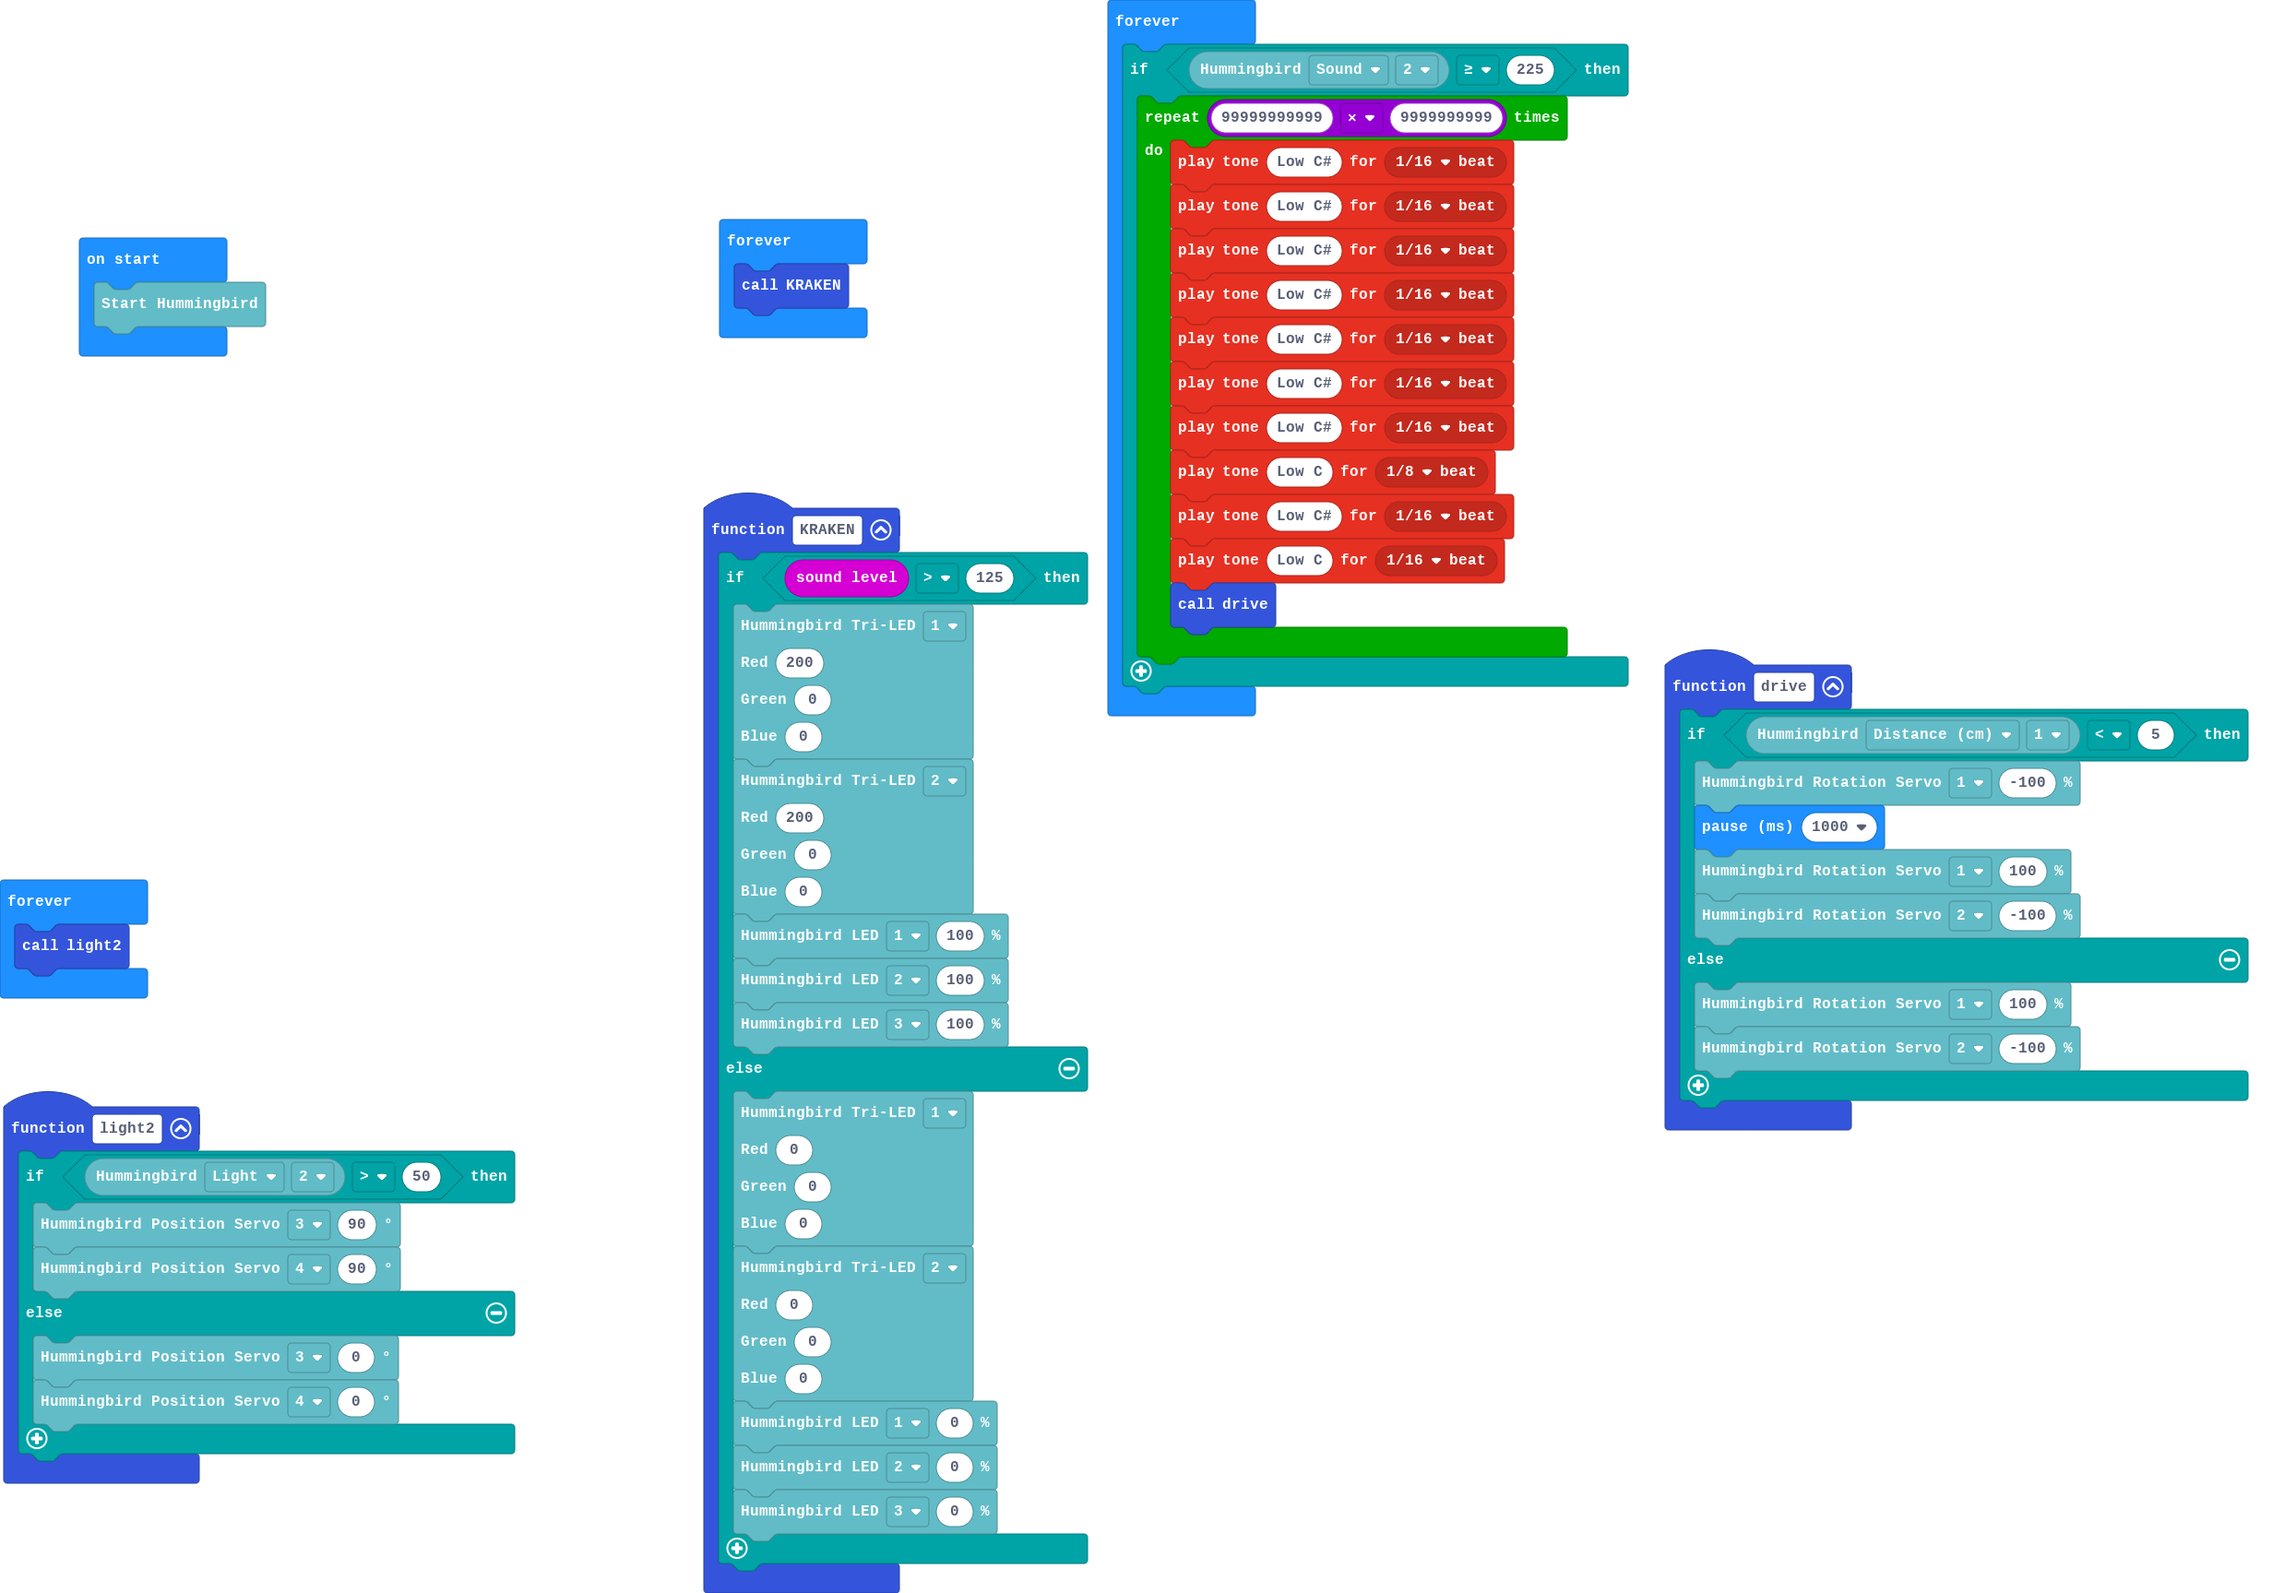
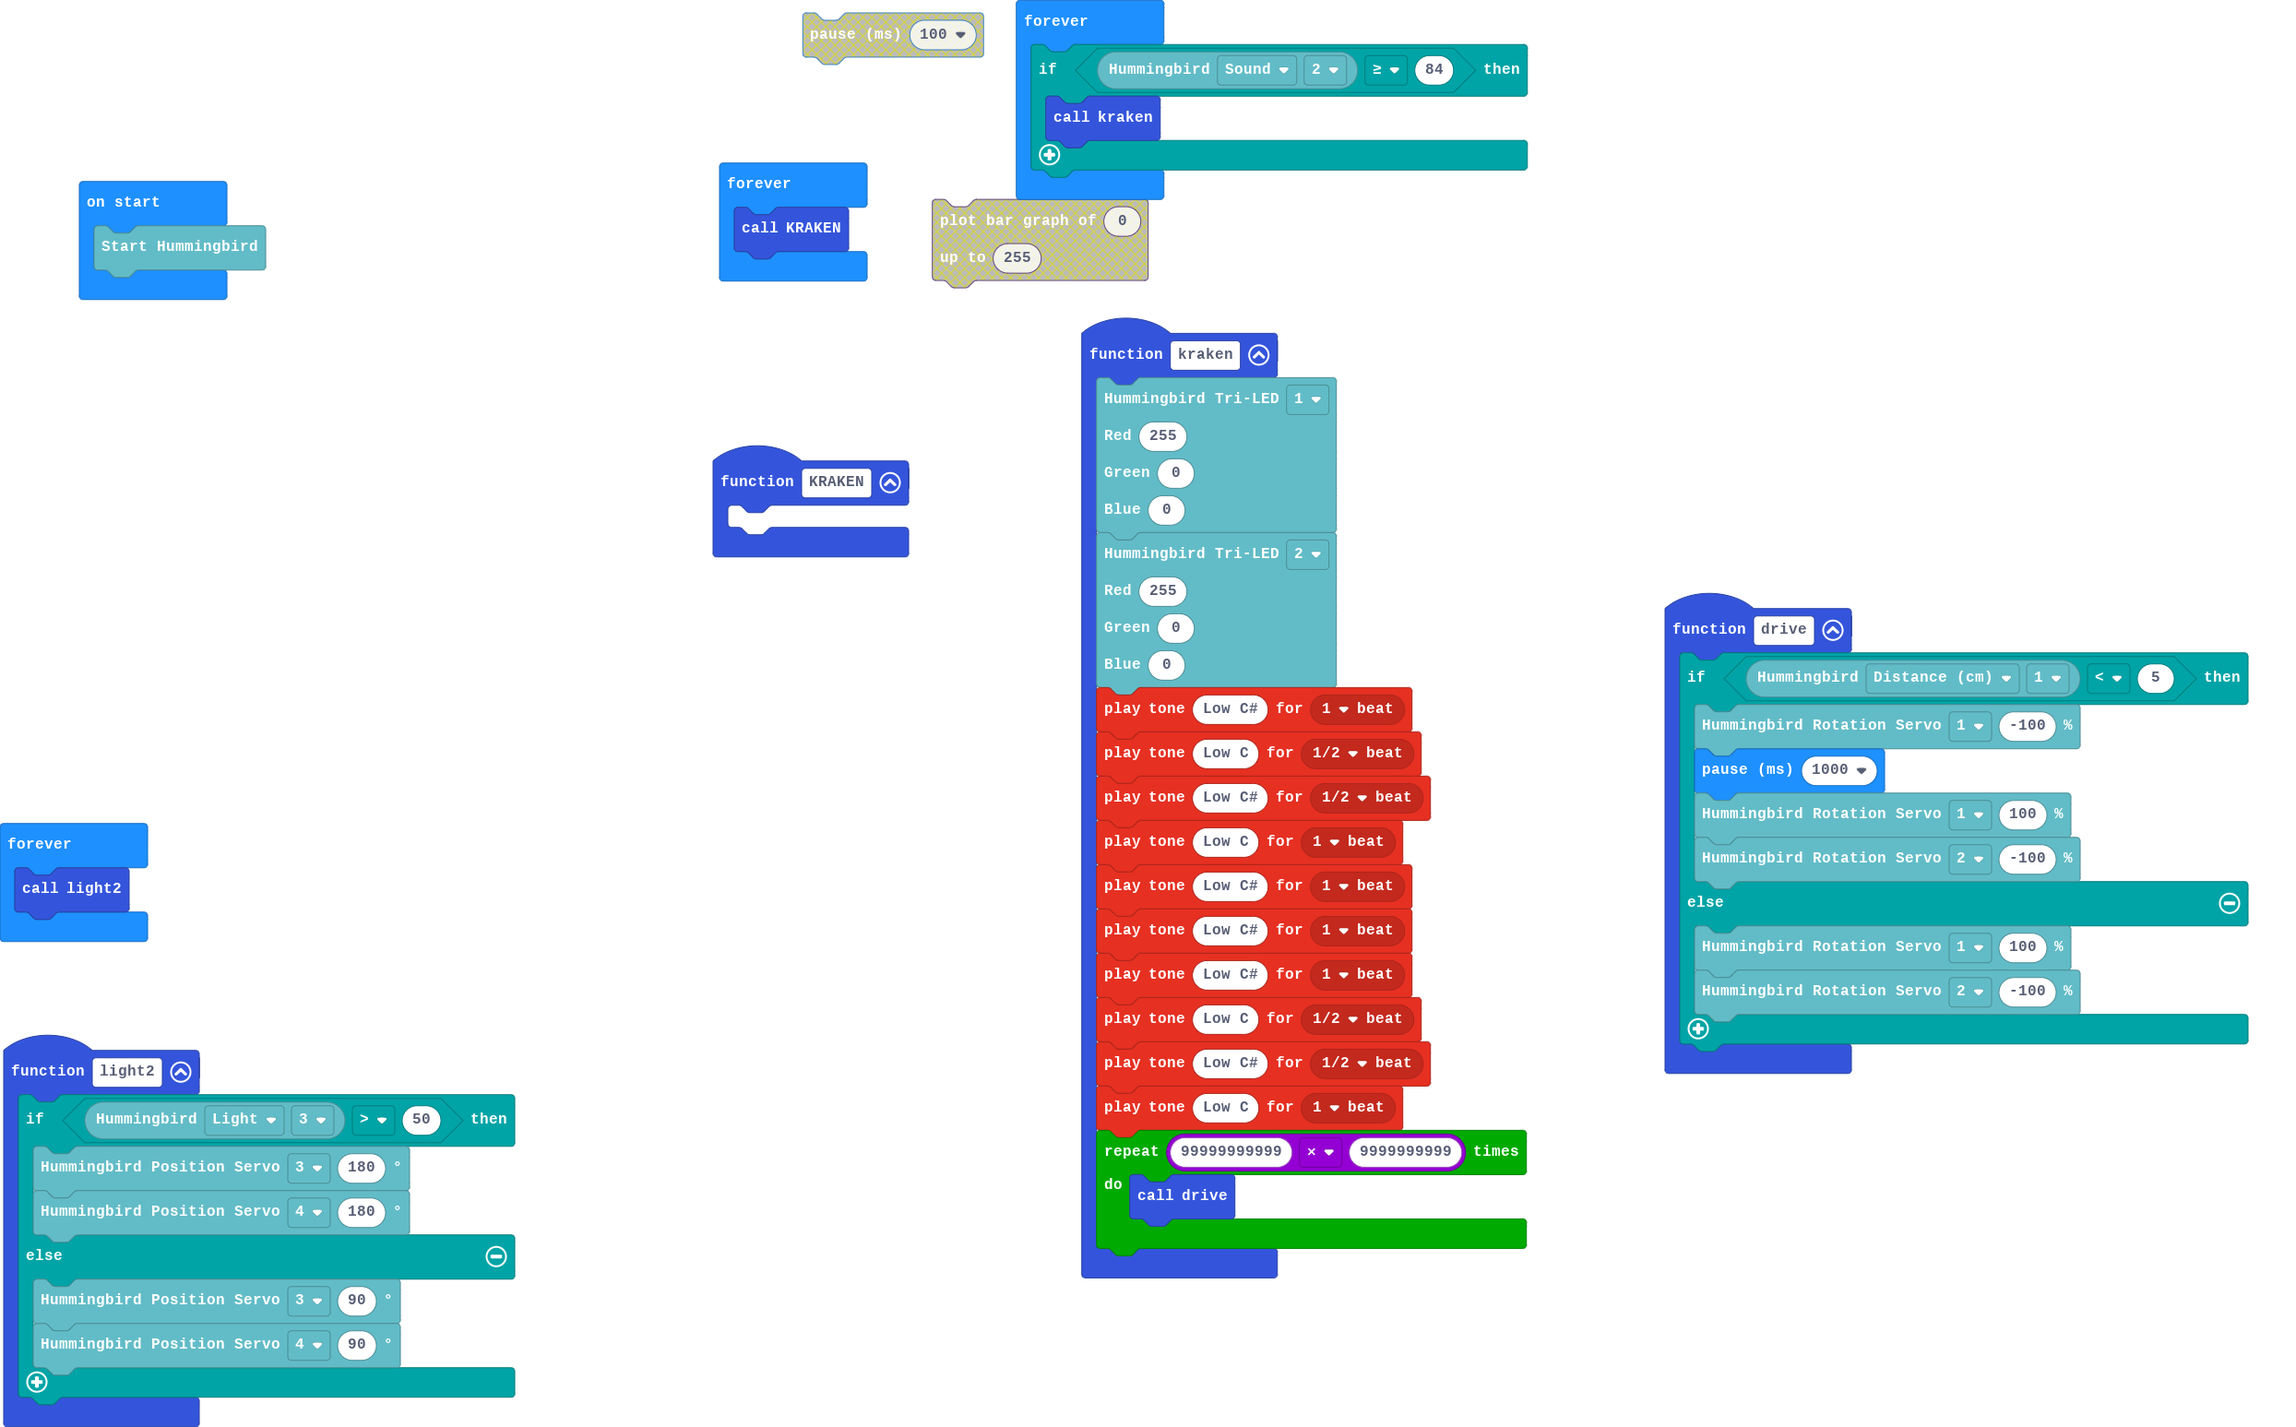
yee

diff --git a/main.ts b/main.ts
@@ -1,3 +1,30 @@
+function kraken () {
+    hummingbird.setTriLED(
+    TwoPort.One,
+    255,
+    0,
+    0
+    )
+    hummingbird.setTriLED(
+    TwoPort.Two,
+    255,
+    0,
+    0
+    )
+    music.playTone(139, music.beat(BeatFraction.Whole))
+    music.playTone(131, music.beat(BeatFraction.Half))
+    music.playTone(139, music.beat(BeatFraction.Half))
+    music.playTone(131, music.beat(BeatFraction.Whole))
+    music.playTone(139, music.beat(BeatFraction.Whole))
+    music.playTone(139, music.beat(BeatFraction.Whole))
+    music.playTone(139, music.beat(BeatFraction.Whole))
+    music.playTone(131, music.beat(BeatFraction.Half))
+    music.playTone(139, music.beat(BeatFraction.Half))
+    music.playTone(131, music.beat(BeatFraction.Whole))
+    for (let index = 0; index < 99999999999 * 9999999999; index++) {
+        drive()
+    }
+}
 function drive () {
     if (hummingbird.getSensor(SensorType.Distance, ThreePort.One) < 5) {
         hummingbird.setRotationServo(FourPort.One, -100)
@@ -10,16 +37,10 @@ function drive () {
     }
 }
 function KRAKEN () {
-    hummingbird.setLED
-    hummingbird.setTriLED
-        TwoPort.Two,
-        255,
-        0,
-        0
-    
+	
 }
 function light2 () {
-    if (hummingbird.getSensor(SensorType.Light, ThreePort.Two) > 50) {
+    if (hummingbird.getSensor(SensorType.Light, ThreePort.Three) > 50) {
         hummingbird.setPositionServo(FourPort.Three, 180)
         hummingbird.setPositionServo(FourPort.Four, 180)
     } else {
@@ -29,32 +50,8 @@ function light2 () {
 }
 hummingbird.startHummingbird()
 basic.forever(function () {
-    if (hummingbird.getSensor(SensorType.Sound, ThreePort.Two) >= 225) {
-        hummingbird.setTriLED(
-            TwoPort.One,
-            255,
-            0,
-            0
-        )
-        hummingbird.setTriLED(
-            TwoPort.Two,
-            255,
-            0,
-            0
-        )
-        music.playTone(139, music.beat(BeatFraction.Eighth))
-        music.playTone(131, music.beat(BeatFraction.Quarter))
-        music.playTone(139, music.beat(BeatFraction.Quarter))
-        music.playTone(131, music.beat(BeatFraction.Eighth))
-        music.playTone(139, music.beat(BeatFraction.Eighth))
-        music.playTone(139, music.beat(BeatFraction.Eighth))
-        music.playTone(139, music.beat(BeatFraction.Eighth))
-        music.playTone(131, music.beat(BeatFraction.Quarter))
-        music.playTone(139, music.beat(BeatFraction.Quarter))
-        music.playTone(131, music.beat(BeatFraction.Eighth))
-        for (let index = 0; index < 99999999999 * 9999999999; index++) {
-            drive()
-        }
+    if (hummingbird.getSensor(SensorType.Sound, ThreePort.Two) >= 84) {
+        kraken()
     }
 })
 basic.forever(function () {
